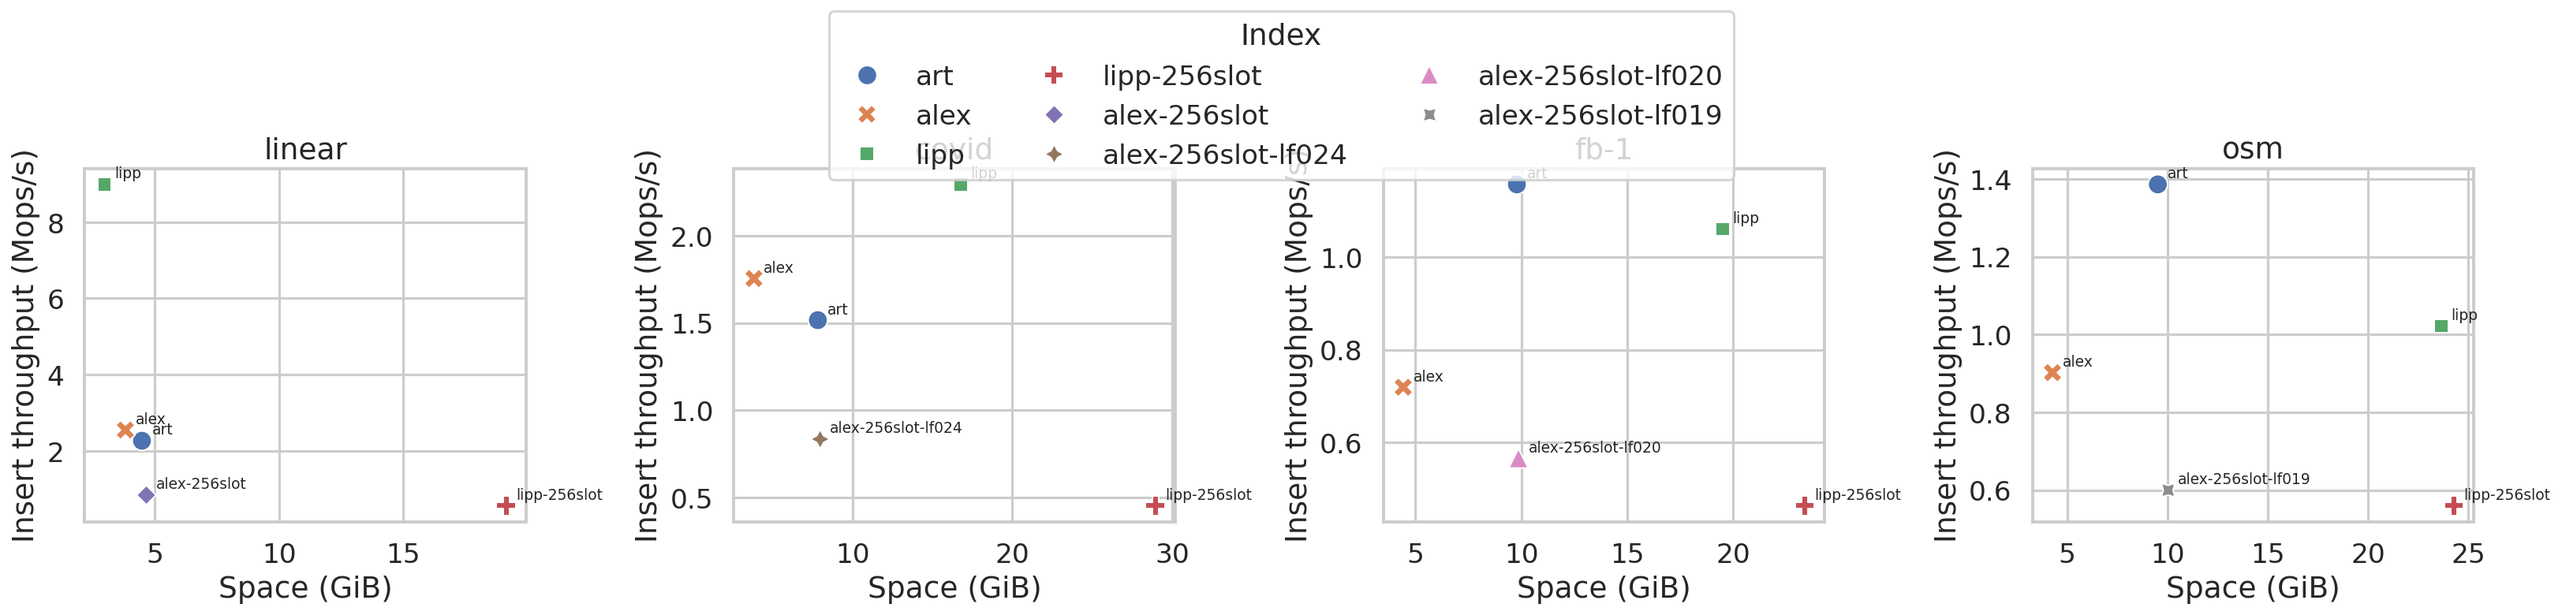
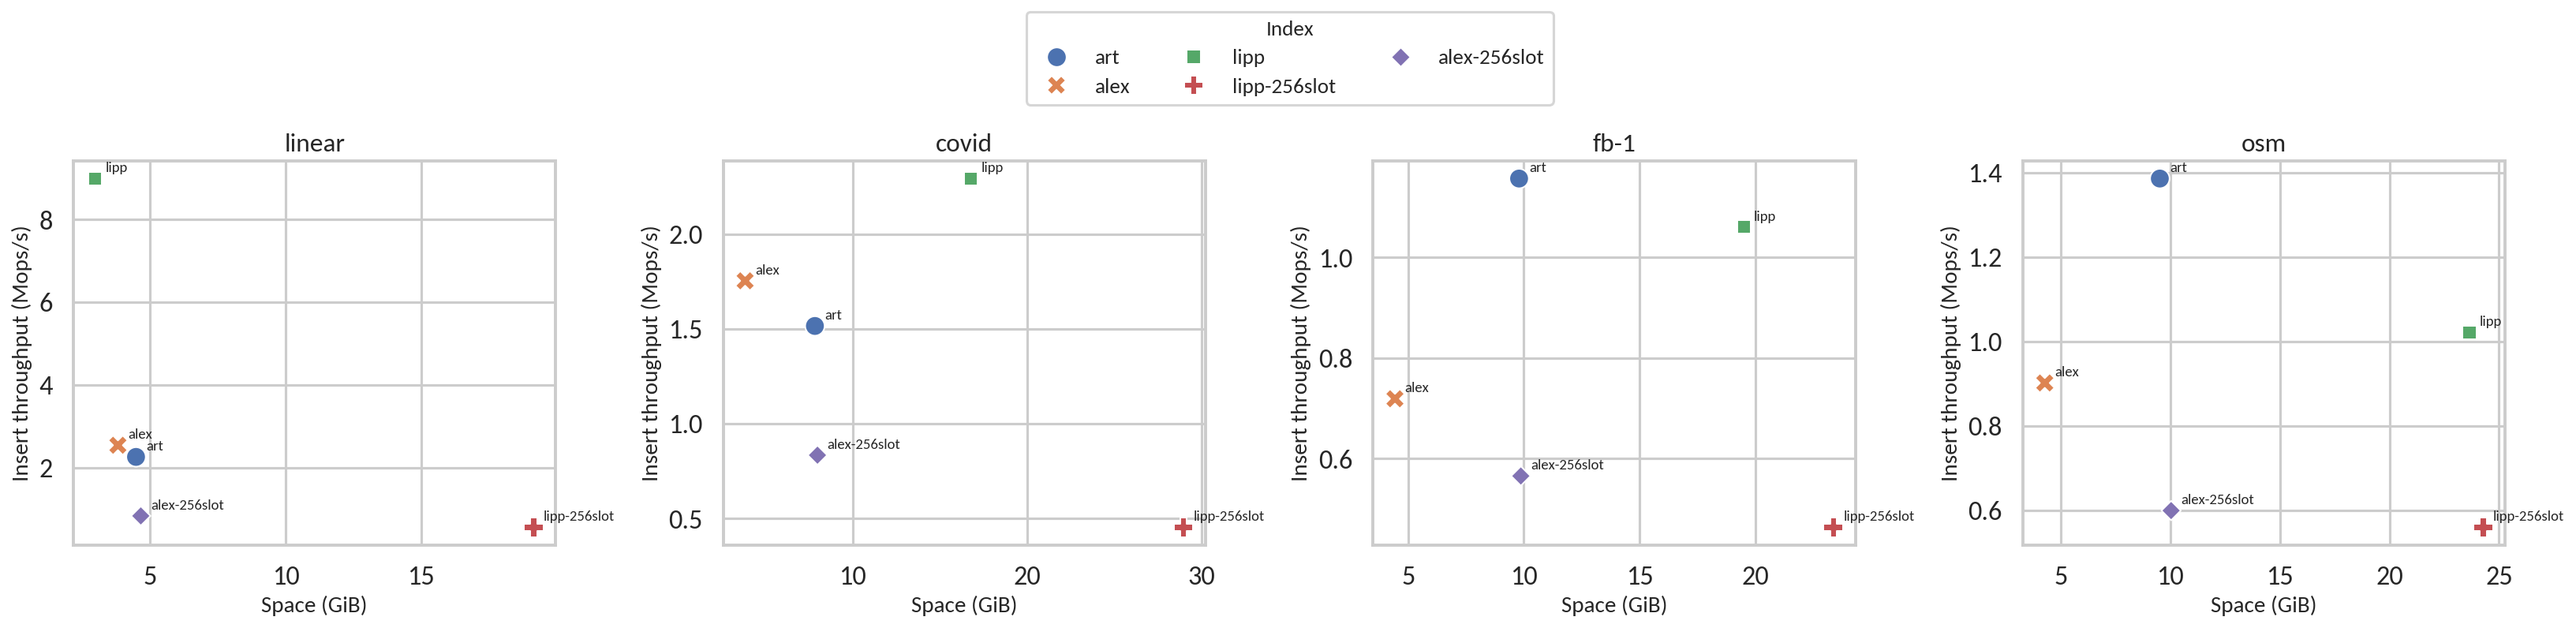
style(result): unify alex-256slot legend labels and use Carlito font
- Merge all alex-256slot(-lf*) variants into a single 'alex-256slot'
  legend label to avoid overcrowded legend/item overlap. Printed tables
  retain original index names.
- Switch to Carlito (Calibri metric-compatible) as the default sans-serif
  font with consistent font sizes across all elements.

Agent-Task: unify alex-256slot legend, switch to Calibri/Carlito font
Agent-Decision: normalize labels after printing tables but before plotting
Agent-Limitation: none

diff --git a/result/motivation/alex_256slot_space_throughput.py b/result/motivation/alex_256slot_space_throughput.py
@@ -18,6 +18,14 @@ import matplotlib.pyplot as plt
 
 sns.set_theme(style="whitegrid", context="talk")
 
+plt.rcParams["font.family"] = "sans-serif"
+plt.rcParams["font.sans-serif"] = ["Carlito"]
+plt.rcParams["font.size"] = 14
+plt.rcParams["axes.titlesize"] = 16
+plt.rcParams["axes.labelsize"] = 14
+plt.rcParams["legend.fontsize"] = 13
+plt.rcParams["legend.title_fontsize"] = 13
+
 RESULT_DIR = Path(__file__).resolve().parent
 MOTIVATION_SUMMARY = RESULT_DIR / "motivation_single_thread_uniform_100m_shuffled_summary.csv"
 TUNING_SUMMARY = RESULT_DIR / "alex_256slot_dataset_load_factor_summary.csv"
@@ -95,6 +103,13 @@ print("throughput_data (melted)")
 print("=" * 80)
 print(throughput_data.to_string(index=False))
 print()
+
+# ── Normalize legend labels ─────────────────────────────────────────────────
+# Merge all alex-256slot(-lf*) variants into a single "alex-256slot" label
+# for cleaner plot legends. The printed tables above retain original names.
+throughput_data["index"] = throughput_data["index"].str.replace(
+    r"^alex-256slot(-.+)?$", "alex-256slot", regex=True
+)
 
 # ── Plot: insert throughput ─────────────────────────────────────────────────
 
